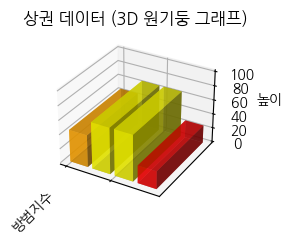
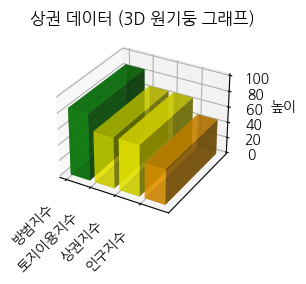
발화 문장 split // 디자인 마무리

diff --git a/service/templates/index.html b/service/templates/index.html
@@ -144,6 +144,30 @@
               font: 700 18px/1.39 "Poppins", Helvetica, Arial, serif;
               font-family: 'Noto Sans KR', sans-serif;
         }
+        body {
+    position: relative;
+    min-height: 100vh;
+}
+
+        #nextButton {
+            position: absolute;  
+            top: 95%;            
+            left: 50%;           
+            transform: translate(-50%, -50%); 
+            padding: 10px 20px;
+            background-color: #f5f5f5;
+            border: 1px solid #ccc;
+            cursor: pointer;
+            z-index: 101;
+            box-shadow: 0 4px 8px rgba(0, 0, 0, 0.1);  /* 그림자 추가 */
+            font-weight: bold;  /* 텍스트 두께 조정 */
+            color: #333;  /* 텍스트 색상 조정 */
+            border-radius: 5px;  /* 버튼 모서리 둥글게 */
+            transition: all 0.3s ease;        /* 다른 요소 위에 표시되도록 z-index 값 설정 */
+}
+
+}
+
     
 .partial-code.root {
   background-color: white;
@@ -671,6 +695,7 @@
 <body>
 <div class="partial-code root">
   <div class="box">
+      <button id="nextButton">조서작성</button>
     <div class="flex_row">
       <div class="cell">
         <div class="flex_col">
@@ -693,7 +718,7 @@
           <div class="cell10"><img class="cover1" src="https://i.imgur.com/Cq3D3ox.png" alt="alt text" /></div>
           <div class="cell11"> <button type="button" class="subtitle" id="convertButton"  onclick="convertAudioToText()"style="border: none; background: none; padding: 0; font: inherit; cursor: pointer;">실행</button></div>
         </div>
-                      <div id="indicator" style="z-index:100;position:relative"></div>
+                      <div id="indicator" style="z-index:100;position:absolute ;left:130px;top:450px"></div>
       </div>
       <div class="cell1">
         <div class="flex_col1">
@@ -713,19 +738,20 @@
               <img class="image5" src="https://i.imgur.com/t9ZEUlN.png" type="image/png" alt="alt text" />
               <div class="cell"><img class="image6" src="https://i.imgur.com/Eji9r94.png" alt="alt text" /></div>
               <h5 class="highlight2">로드뷰 맵</h5>
-              <div class="cell1"><div class="infor">ROAD VIEW MAP</div></div>
-              
-
+              <div class="cell1"><div class="infor">ROAD VIEW MAP</div>
+                </div>
             </div>
           <div id="roadview"> </div>
+          
             </div>
         </div>
+          
       </div>
       <div class="spacer"></div>
         
       <div class="cell2">
         <div class="flex_col2">
-        <h2 class="medium_title">상권안전지수</h2>
+        <h2 class="medium_title">안심상권지수</h2>
         <div class="cell"><h3 class="subtitle1">2023</h3></div>
         <div class="cell1"></div>
         
@@ -791,6 +817,13 @@
 
 <script type="text/javascript" src="//dapi.kakao.com/v2/maps/sdk.js?appkey=990c65316ad7b43897d80882ebd58ac1&libraries=services"></script>
 <script>
+    
+const nextButton = document.getElementById('nextButton');
+
+nextButton.addEventListener('click', function() {
+  window.location.href = "https://alice-qhkpb.run.goorm.site/service/temp/"; // 이동하려는 페이지의 URL
+});
+    
 // 마커를 담을 배열입니다
 var markers = [];
 localStorage.clear();
@@ -1206,8 +1239,6 @@ function showDescription(photoId) {
   const additionalPhotosElement = document.getElementById('additional-photos');
 
   if (photoId === 'photo1') {
-    titleElement.textContent = '안전상권 지수 변수';
-    descriptionElement.textContent = '이 변수들에 의거하여 안전상권 지수가 결정됩니다.';
     additionalPhotosElement.innerHTML = '<img src="{% static 'graph_output_1.png' %}?t=' + new Date().getTime() + '" alt="추가 사진 1">';
   }
   const description = document.getElementById('description');

diff --git a/service/templates/index_final.html b/service/templates/index_final.html
@@ -175,7 +175,27 @@ window.onload = function() {
     var textdata = JSON.parse(localStorage.getItem("textinfor"));
     var locationInput = document.getElementById("location");
     var addressInput = document.getElementById("address");
-    if castdata.code.get == 
+    if (textdata.code.count == "CODE0"){
+        var checkboxes= document.getElementById("code0Checkbox");
+        checkboxes.checked=true;
+    }
+    if (textdata.code.count == "CODE1"){
+        var checkboxes= document.getElementById("code1Checkbox");
+        checkboxes.checked=true;
+    }
+    if (textdata.code.count == "CODE2"){
+        var checkboxes= document.getElementById("code2Checkbox");
+        checkboxes.checked=true;
+    }
+    if (textdata.code.count == "CODE3"){
+        var checkboxes= document.getElementById("code3Checkbox");
+        checkboxes.checked=true;
+    }
+    if (textdata.code.count == "CODE4"){
+        var checkboxes= document.getElementById("code4Checkbox");
+        checkboxes.checked=true;
+    }
+
     var roadaddressInput = document.getElementById("jibunAddress");
     console.log(textdata)
     var reportContentInput = document.getElementById("reportContent");
@@ -187,6 +207,5 @@ window.onload = function() {
     reportContentInput.value=textdata.text;
     
 }
-    
-    </script>
+</script>
 </html>

diff --git a/service/views.py b/service/views.py
@@ -17,6 +17,7 @@ from geopy.geocoders import Nominatim
 import pandas as pd
 import matplotlib.pyplot as plt
 from geopy.distance import geodesic
+from kss import split_sentences
 
 # whisper fine-tuned model api
 API_URL = "https://api-inference.huggingface.co/models/kyungmin011029/test_third"
@@ -33,22 +34,41 @@ def convert_audio(request):
     if request.method == 'POST' and request.FILES.get('audio'):
         audio_data = request.FILES['audio'].read()
         #response = query_hugging_face_model(audio_data)
-        #print(response)
-        response = {'text':"도와주세요 지금 이상한 남자가 집 앞까지 따라와서 문 앞에 현관문을 막 들어오려고 해요 신림역 푸리마타운이요 빨리요"}
-        code_class = query(response)
-        print(code_class)
-        category = query_category(response)
-        code_classifiering= code_classifier(code_class, category)
+        #print('\n들어온 음성: ', response)
+        response = {'text':"외대 코코니주방 앞인데 교통사고가 났어요"}
+        
+        sentences = split_sentences(response['text'])
+        print("\n분리된 문장:", sentences)
+        results=[]
+        for sentence in sentences:
+            temp = {'text' : sentence}
+            code_class = query(sentence)
+            results.append([code_class[0][0]['label'][-1],code_class[0][0]['score'],temp])
+        results = sorted(results, key = lambda x : (x[0], -x[1]))
+        print("\n문장 별 가장 높은 코드: ", results)
+        urgent_code = results[0]
+        print("\n긴급코드: ", urgent_code)
+        category_sentence=urgent_code[2]
+        # 한문장인 경우 (옛날)        
+        # code_class = query(response)
+        # print(code_class)
+        category = query_category(category_sentence)
+        # print('\ncategory 3개만: ', category[:3])
+        code_classifiering= code_classifier(urgent_code, category)
         result_text = response['text']
+
+        # print("\n category:", category)
+        #code_classifiering= code_classifier(code_class, category)
+        #result_text = response['text']
         
         # call ner.py for ner / result_text<->
         ner_result = ner.ner_prediction(result_text)
         words_with_label_25 = [word for word, label in ner_result if label == 'LABEL_25' and word != '[CLS]' and word!= '[SEP]']
-        print(words_with_label_25)
+        print('\nNER 라벨: ', words_with_label_25)
         
         zisoo_result = zisoo.main(words_with_label_25)
         response.update(zisoo_result)
-        print(zisoo_result) 
+        print('\n지수 결과' ,zisoo_result) 
         
         response['words_with_label_25'] = words_with_label_25
         response['code'] = code_classifiering
@@ -85,16 +105,16 @@ def query_category(text):
 
 
 def code_classifier(code, category):
-    result = code[0]
+    # if type(code) == 'int' or type(code) == 'str': count = code 
+    result = "CODE"+str(code[0])
     category = category[0]
     print(category)
   #result[0]['score']
-    max_prob = result['score']
+    max_prob = code[1]
     max_prob *= 100
-    count = result['label']
+    count = result
     category_prob = category['score']
     check = category['label']
-    count = count.replace('LABEL_', 'CODE')
     check = check.replace('LABEL_', '')
     check = int(check)
     
@@ -110,3 +130,34 @@ def code_classifier(code, category):
 
     return code_zip
 
+# --- 
+        # sentences = split_sentences(response['text'])
+        # print("\n분리된 문장:", sentences)
+        # results = []
+
+        # for sentence in sentences:
+        #     temp = {'text' : sentence}
+        #     code_class = query(sentence)
+        # results.append([code_class[0][0]['label'][-1],code_class[0][0]['score']])
+        # result.sort(key = lambda x:x[0])
+        # urgent_code = result[0]
+            
+        # # print(urgent_code) 
+
+        # urgent_code_index = results.index(urgent_code)
+        # # print("urgent_code_index", urgent_code_index)
+        # urgent_sentence = sentences[urgent_code_index]
+        # # print("urgent_sentence", urgent_sentence)
+
+        # category = query_category(urgent_sentence)
+        
+        
+        #---
+        #code_class = []
+        #category = []
+
+        # for sentence in sentences:
+        #     c_l = query(sentence)
+        #     code_class.extend(c_l)
+        #     t_l = query_category(sentence)
+        #     category.extend(t_l)

diff --git a/zisoo.py b/zisoo.py
@@ -89,8 +89,10 @@ def main(words_with_label_25):
 
                 if nanum_font:
                     plt.rcParams['font.family'] = 'NanumGothic'
-                    
+                
                 # 그래프 생성
+                # 정리된 코드
+                
                 fig1 = plt.figure(figsize=(5, 5))
                 ax1 = fig1.add_subplot(121, projection='3d')
 
@@ -104,18 +106,18 @@ def main(words_with_label_25):
 
                 numeric_values_x = selected_data.iloc[0].apply(lambda x: height_mapping_x.get(x, 0))
 
-                x_labels = ['', '방범지수', '', '토지이용지수', '', '상권지수','', '인구지수', '']  # x 축 라벨 리스트
+                x_labels = ['방범지수', '토지이용지수', '상권지수', '인구지수']  # x 축 라벨 리스트
 
                 x_pos = np.arange(len(numeric_values_x[:-1]))
                 y_pos = np.zeros(1)
                 z_pos = np.zeros(len(numeric_values[:-1]))
                 dz = numeric_values[:-1]
 
-              # 원기둥 모양의 3D 막대 그래프 생성
+            # 원기둥 모양의 3D 막대 그래프 생성
                 ax1.bar3d(x_pos, y_pos, z_pos, 0.8, 0.8, dz, shade=True, color=color_values[:-1], alpha=0.7)
 
-              # x 축 라벨 설정
-              #ax1.set_xticks(x_pos)
+            # x 축 라벨 설정
+                ax1.set_xticks(x_pos)
                 ax1.set_xticklabels(x_labels, rotation=45, ha='right')
 
               # y 축 눈금과 라벨 비활성화
@@ -129,6 +131,14 @@ def main(words_with_label_25):
                 ax1.set_ylabel("")  # y 축 라벨을 빈 문자열로 설정하여 라벨을 제거
                 ax1.set_zlabel("높이")
                 ax1.set_title("상권 데이터 (3D 원기둥 그래프)")
+
+                
+                # 그래프를 이미지 파일로 저장
+                fig1.tight_layout()
+                file_path1 = os.path.join(settings.BASE_DIR, 'static/graph_output_1.png')
+                fig1.savefig(file_path1, bbox_inches='tight')
+                plt.close(fig1)
+
                 
                 # 그래프를 이미지 파일로 저장
                 fig1.tight_layout()
